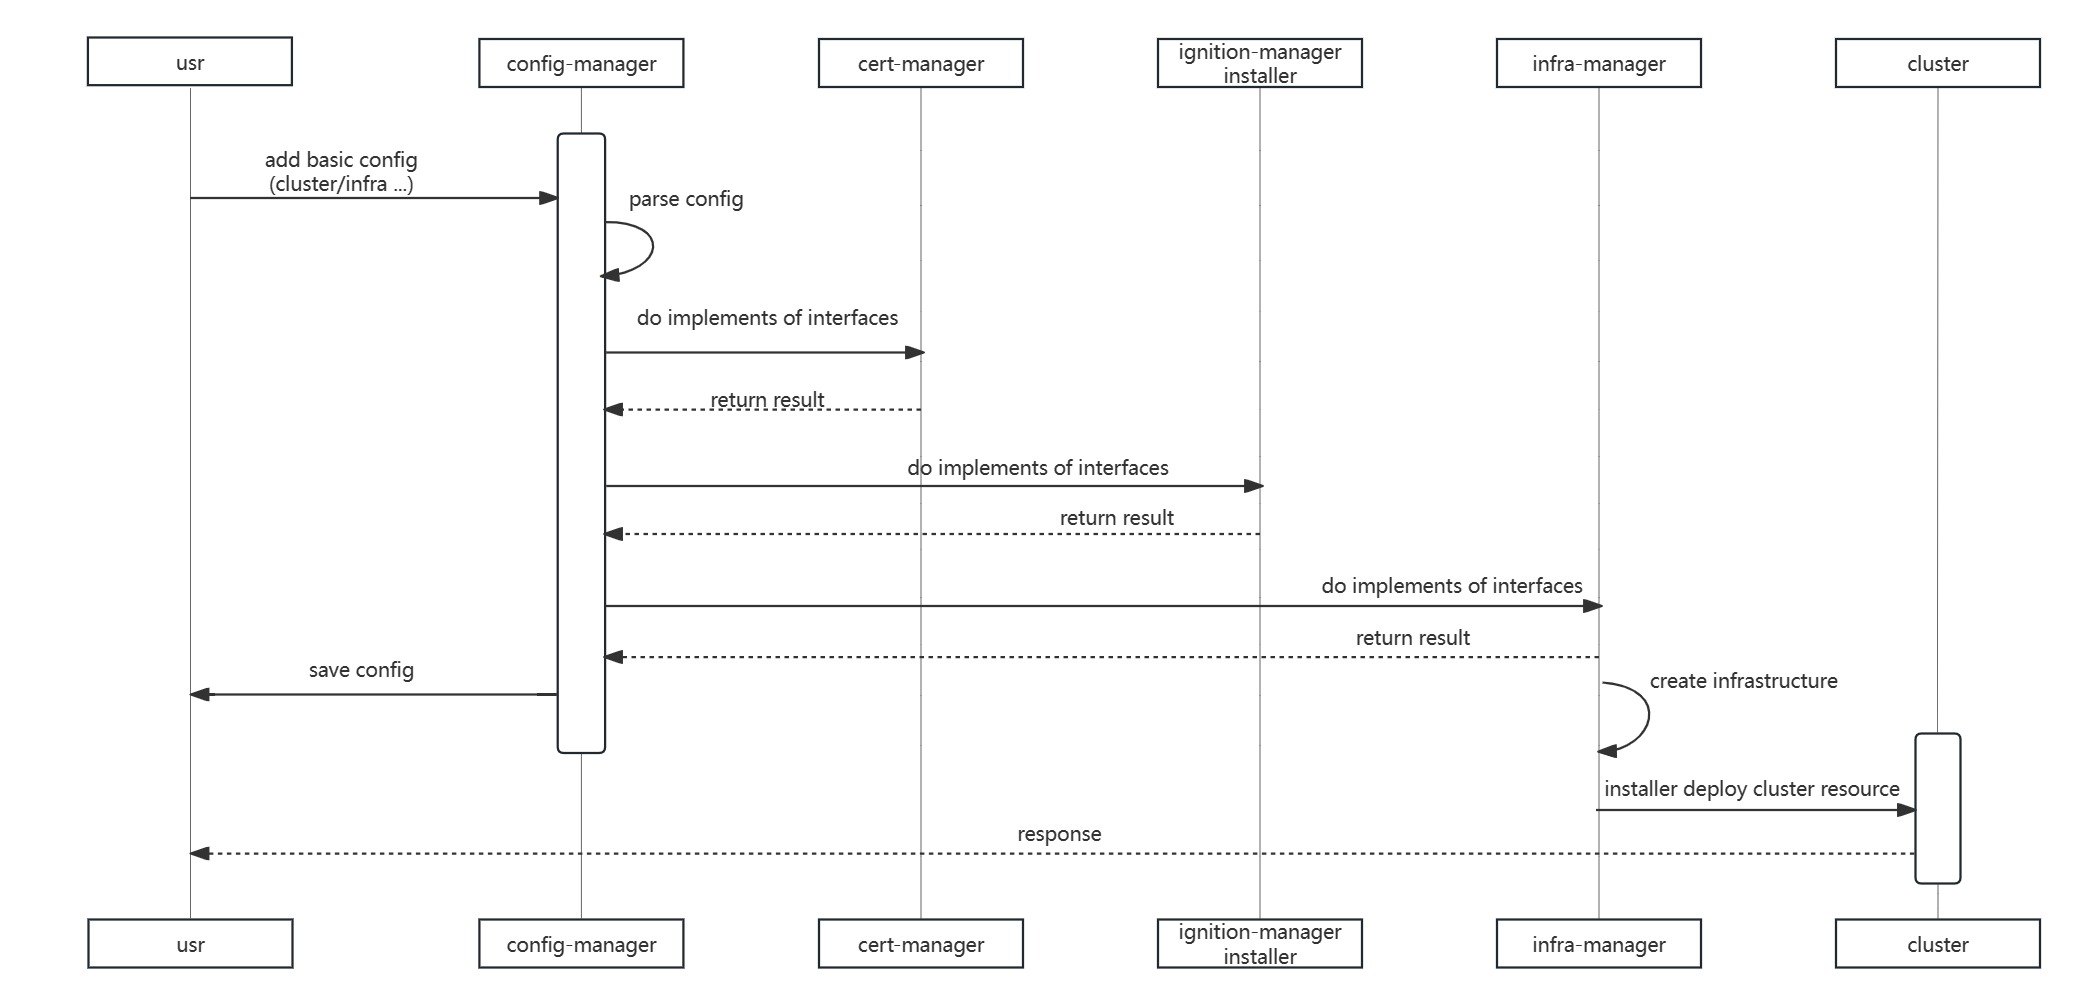
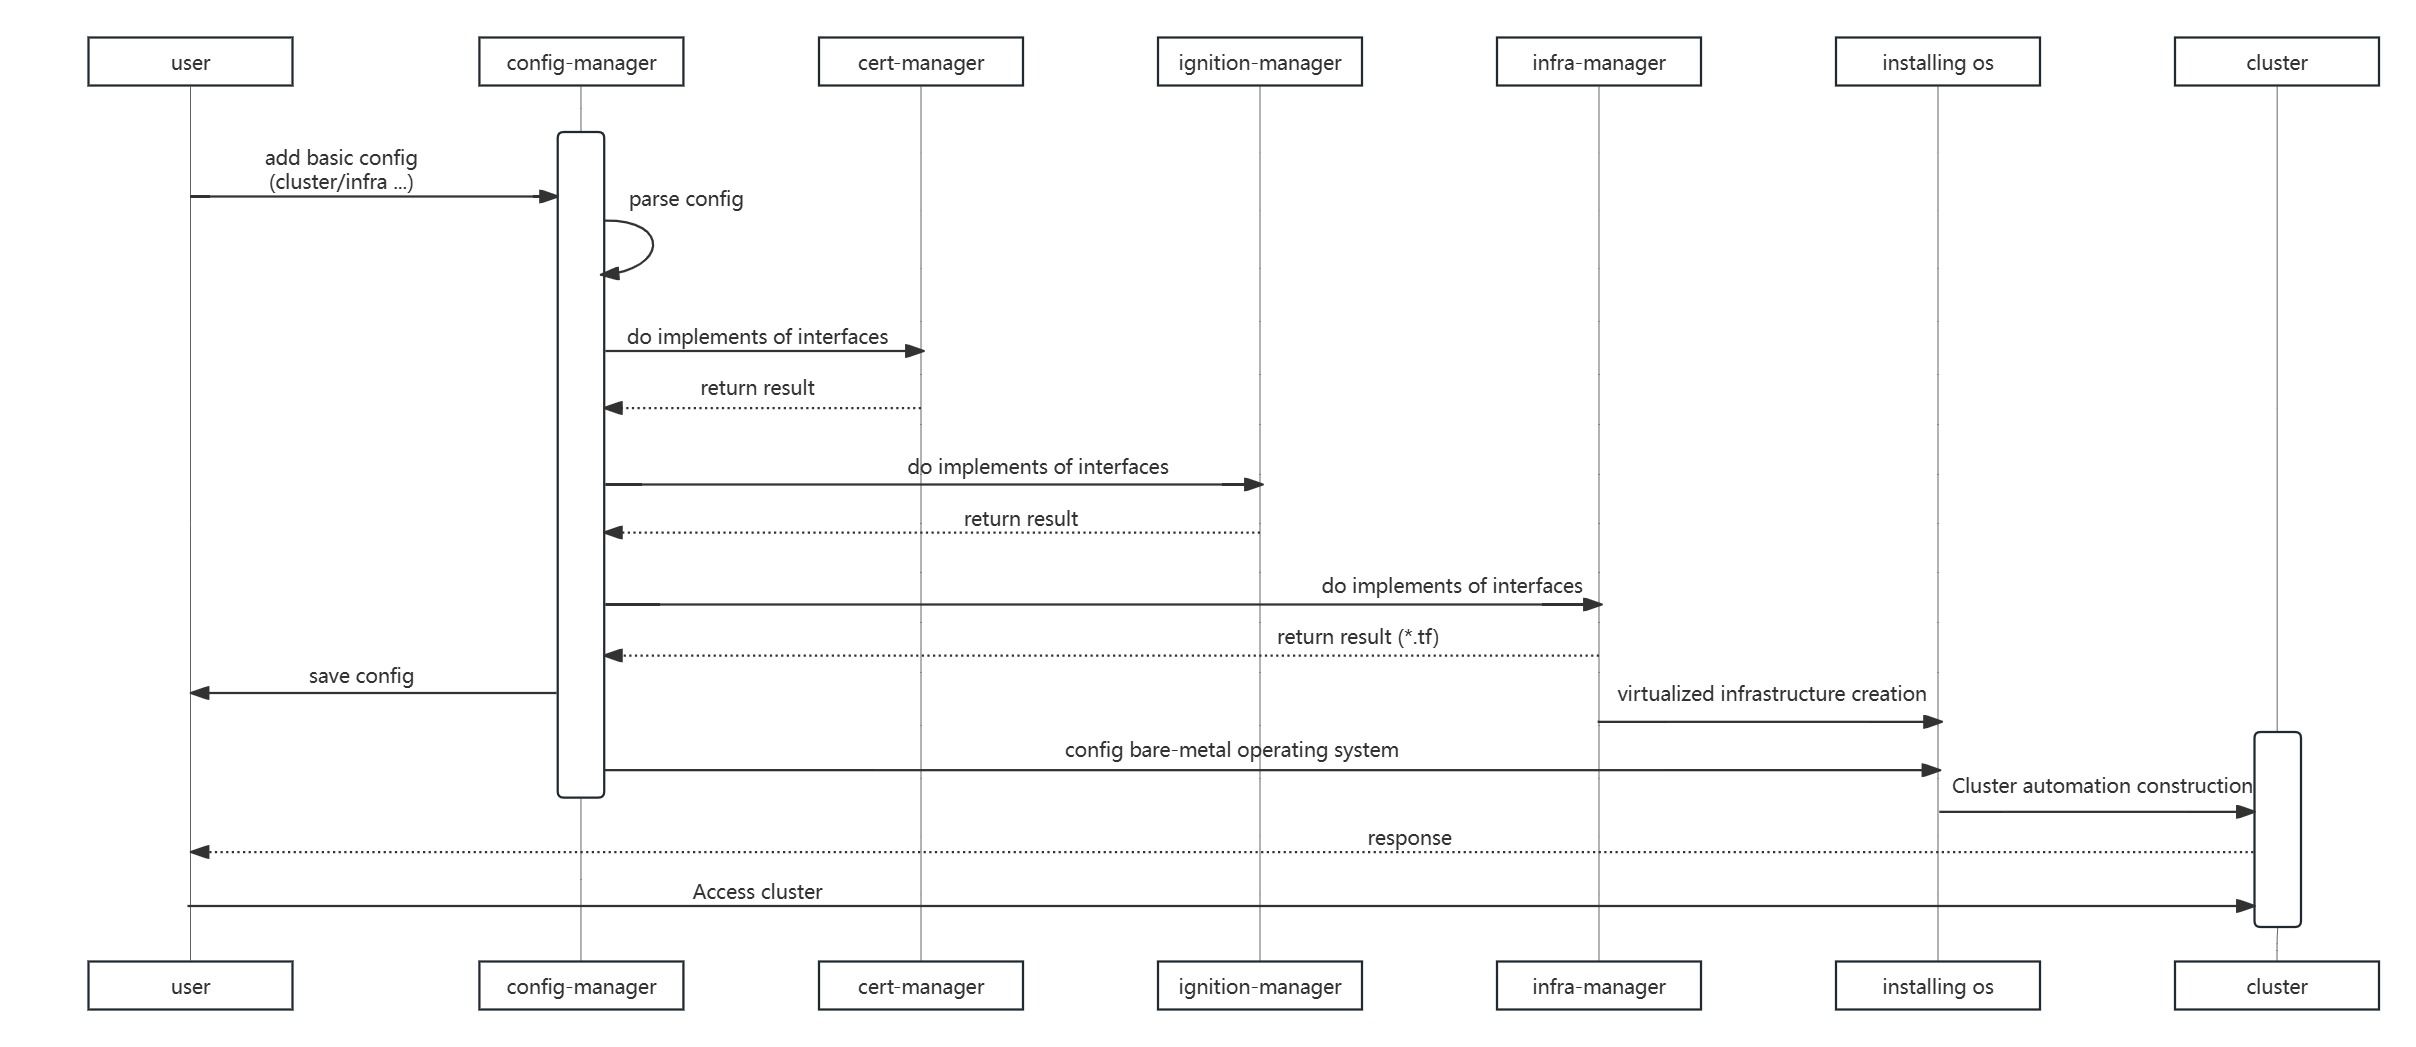
Improve architecture design documentation

diff --git a/cmd/extend.go b/cmd/extend.go
@@ -54,6 +54,9 @@ func NewExtendCommand() *cobra.Command {
 }
 
 func runExtendCmd(cmd *cobra.Command, args []string) error {
+	cleanup := command.SetuploggerHook(opts.Opts.RootOptDir)
+	defer cleanup()
+
 	clusterID, err := cmd.Flags().GetString("cluster-id")
 	if err != nil {
 		logrus.Errorf("Failed to get cluster-id: %v", err)

diff --git a/docs/en/manual.md b/docs/en/manual.md
@@ -7,13 +7,13 @@
   * Installation of the tofu software package
     ``` shell
     # Install amd64 version
-    $ wget https://github.com/opentofu/opentofu/releases/download/v1.6.0-rc1/tofu_1.6.0-rc1_amd64.rpm
-    $ rpm -ivh tofu_1.6.0-rc1_amd64.rpm
+    $ wget https://github.com/opentofu/opentofu/releases/download/v1.6.2/tofu_1.6.2_amd64.rpm
+    $ rpm -ivh tofu_1.6.2_amd64.rpm
     ``` 
     ``` shell
     # Install arm64 version
-    $ wget https://github.com/opentofu/opentofu/releases/download/v1.6.0-rc1/tofu_1.6.0-rc1_arm64.rpm
-    $ rpm -ivh tofu_1.6.0-rc1_arm64.rpm
+    $ wget https://github.com/opentofu/opentofu/releases/download/v1.6.2/tofu_1.6.2_arm64.rpm
+    $ rpm -ivh tofu_1.6.2_arm64.rpm
     ``` 
 
 * Install NKD
@@ -30,6 +30,9 @@ Deploying clusters on the libvirt platform requires pre-installation of the libv
 
 ### openstack
 Deploying clusters on the OpenStack platform requires pre-setup of the OpenStack environment.
+
+### Bare Metal
+When deploying a cluster on a bare metal platform, it is necessary to prepare the physical machines in advance.
 
 ## Compilation and Installation
 
@@ -106,22 +109,44 @@ Supports deploying the cluster using application configuration parameters, in ad
   -f, --file string                   Location of the cluster deploy config file
   -h, --help                          help for deploy
       --image-registry string         Registry address for Kubernetes component container images
+      --ipxe-filePath string          Path of config file for iPXE
+      --ipxe-ip string                IP address of local machine for iPXE
+      --ipxe-osInstallTreePath string Path of OS install tree for iPXE. (default: /var/www/html/)
       --kubernetes-apiversion uint    Sets the Kubernetes API version. Acceptable reference values:
                                         - 1 for Kubernetes versions < v1.15.0,
                                         - 2 for Kubernetes versions >= v1.15.0 && < v1.22.0,
                                         - 3 for Kubernetes versions >= v1.22.0
       --kubeversion string            Version of Kubernetes to deploy
+      --libvirt-cidr string           CIDR for libvirt (default: 192.168.132.0/24)
+      --libvirt-gateway string        Gateway for libvirt (default: 192.168.132.1)
+      --libvirt-osPath string         OS path for libvirt
+      --libvirt-uri string            URI for libvirt (default: qemu:///system)
       --master-cpu uint               CPU allocation for master nodes (units: cores)
       --master-disk uint              Disk size allocation for master nodes (units: GB)
       --master-hostname stringArray   Hostnames of master nodes (e.g., --master-hostname [master-01] --master-hostname [master-02] ...)
       --master-ips stringArray        IP addresses of master nodes (e.g., --master-ips [master-ip-01] --master-ips [master-ip-02] ...)
       --master-ram uint               RAM allocation for master nodes (units: MB)
       --network-plugin-url string     The deployment yaml URL of the network plugin
+      --openstack-authURL string            AuthURL for openstack (default: http://controller:5000/v3)
+      --openstack-availabilityZone string   AvailabilityZone for openstack (default: nova)
+      --openstack-externalNetwork string    ExternalNetwork for openstack
+      --openstack-glanceName string         GlanceName for openstack
+      --openstack-internalNetwork string    InternalNetwork for openstack
+      --openstack-password string           Password for openstack
+      --openstack-region string       Region for openstack (default: RegionOne)
+      --openstack-tenantName string   TenantName for openstack (default: admin)
+      --openstack-username string     UserName for openstack (default: admin)
       --operator-image-url string     URL of the container image for the housekeeper operator component
+      --os-type string                Operating system type for Kubernetes cluster deployment (e.g., nestos or generalos)
       --password string               Password for node login
       --pause-image string            Image for the pause container (e.g., pause:TAG)
       --platform string               Infrastructure platform for deploying the cluster (supports 'libvirt' or 'openstack')
       --pod-subnet string             Subnet used for Kubernetes Pods. (default: 10.244.0.0/16)
+      --posthook-yaml string          Specify a YAML file or directory to apply after cluster deployment using 'kubectl apply'
+      --prehook-script string         Specify a script file or directory to execute before cluster deployment as hooks
+      --pxe-httpRootDir string        Root directory of HTTP server for PXE (default: /var/www/html/)
+      --pxe-ip string                 IP address of local machine for PXE
+      --pxe-tftpRootDir string        Root directory of TFTP server for PXE (default: /var/lib/tftpboot/)
       --release-image-url string      URL of the NestOS container image containing Kubernetes component
       --runtime string                Container runtime type (docker, isulad or crio)
       --service-subnet string         Subnet used by Kubernetes services. (default: 10.96.0.0/16)
@@ -134,7 +159,7 @@ Supports deploying the cluster using application configuration parameters, in ad
       --worker-ips stringArray        IP addresses of worker nodes (e.g., --worker-ips [worker-ip-01] --worker-ips [worker-ip-02] ...)
       --worker-ram uint               RAM allocation for worker nodes (units: MB)
   # Deploying the cluster with optional application configuration parameters
-  $ nkd deploy --platform [platform] --master-ips [master-ip-01] --master-ips [master-ip-02] --master-hostname [master-hostname-01] --master-hostname [master-hostname-02] --master-cpu [master-cpu-cores] --worker-hostname [worker-hostname-01] --worker-disk [worker-disk-size]
+  $ nkd deploy --platform [platform] --master-ips [master-ip-01] --master-ips [master-ip-02] --master-hostname [master-hostname-01] --master-hostname [master-hostname-02] --master-cpu [master-cpu-cores] --worker-hostname [worker-hostname-01] --worker-disk [worker-disk-size] ...
   ```
 
 ## Deployment Process Demonstration
@@ -157,19 +182,16 @@ Deploying the Cluster with Application Configuration Files
       ``` dockerfile
       FROM nestos_base_image
       COPY kube* /usr/bin/
+      COPY crictl /usr/bin/
       RUN ostree container commit
       ```
 Note: Users need to customize building deployment images before deploying the cluster.
 
 ## Create Cluster
 
- - Deploy the cluster using default configurations without adding any parameters. The default platform is libvirt, and it creates one master node and one worker node
-    ``` shell
-    $ nkd deploy
-    ```
  - Deploy the cluster with optional parameters. Example command:
     ``` shell
-    $ nkd deploy --master-ips 192.168.132.11 --master-ips 192.168.132.12 --master-hostname k8s-master01 --master-hostname k8s-master02 --master-cpu 8 --worker-hostname k8s-worker01 --worker-disk 50
+    $ nkd deploy --master-ips 192.168.132.11 --master-ips 192.168.132.12 --master-hostname k8s-master01 --master-hostname k8s-master02 --master-cpu 8 --worker-hostname k8s-worker01 --worker-disk 50 ...
     ```
  - Additionally, for more fine-grained configurations, you can deploy the cluster using a cluster configuration file. See configuration management for details.
     ``` shell

diff --git a/docs/en/config_file_desc.md b/docs/en/config_file_desc.md
@@ -1,15 +1,12 @@
 # Cluster config file description
 
-For the NestOS image download address, see[website](https://nestos.openeuler.org/)
 ``` shell
 cluster_id: cluster                                 # cluster name
 architecture: amd64                                 # deploy cluster architecture, support amd64 or arm64
-platform: libvirt                                   # deployment platform is libvirt
-infraplatform
-  uri: qemu:///system                                
-  osimage: https://nestos.org.cn/nestos20230928/nestos-for-container/x86_64/NestOS-For-Container-22.03-LTS-SP2.20230928.0-qemu.{arch}.qcow2                                             # image URL，support amd64 or arm64
-  cidr: 192.168.132.0/24
-  gateway: 192.168.132.1
+platform: libvirt                                   # deployment platform is libvirt、openstack、pxe
+                                                    # Parameters need to be set according to different deployment platforms
+osImage:
+  type:                                             # Specify the type of operating system, such as nestos or generalos.
 username: root                                      # Specify the username for ssh login
 password: $1$yoursalt$UGhjCXAJKpWWpeN8xsF.c/        # Specify the password for ssh login
 sshkey: "/root/.ssh/id_rsa.pub"                     # The storage path of the ssh-key file
@@ -27,21 +24,21 @@ worker:                                             # worker config
     ram: 8192
     disk: 50
   ip: ""                                            # If the worker node IP address is not set, it will be automatically assigned by dhcp and will be empty by default.
-runtime: isulad                                     # support docker、isulad、crio
+runtime: isulad                                     # support docker、isulad、containerd and crio
 kubernetes:                                         
-  kubernetes-version: "v1.23.10"                   
+  kubernetes-version: "v1.29.1"                   
   kubernetes-apiversion: "v1beta3"                  # support v1beta3、v1beta2、v1beta1
   apiserver-endpoint: "192.168.132.11:6443"          
-  image-registry: "k8s.gcr.io"                     
-  pause-image: "pause:3.6"                         
-  release-image-url: "hub.oepkgs.net/nestos/nestos:22.03-LTS-SP2.20230928.0-{arch}-k8s-v1.23.10"                         
+  image-registry: "registry.k8s.io"                     
+  pause-image: "pause:3.9"                         
+  release-image-url: ""                         
   token: ""                                         # automatically generated by default
   adminkubeconfig: /etc/nkd/cluster/admin.config    # path of admin.conf
   certificatekey: ""                                # The key used to decrypt the certificate in the downloaded Secret when adding a new control plane node
   network:                                          
     service-subnet: "10.96.0.0/16"                  
     pod-subnet: "10.244.0.0/16"                     
-    plugin: https://projectcalico.docs.tigera.io/archive/v3.22/manifests/calico.yaml # network plugin
+    plugin: ""                                      # network plugin
 housekeeper:                                                                                          # housekeeper
   deployhousekeeper: false                                                                           
   operatorimageurl: "hub.oepkgs.net/nestos/housekeeper/{arch}/housekeeper-operator-manager:{tag}"     # housekeeper-operator image URL
@@ -55,6 +52,16 @@ certasset:                                          # Configure user-defined cer
   frontproxycakeypath: ""
   sapub: ""
   sakey: ""
+```
+
+Specify deployment platform configuration parameters for libvirt as an example:
+``` shell
+platform: libvirt                                   # Deployment platform is libvirt
+infraPlatform
+  uri: qemu:///system                                
+  osPath:                                           # Specify the operating system image address for deploying cluster machines, supporting architectures x86_64 or aarch64
+  cidr: 192.168.132.0/24                            # Routing address
+  gateway: 192.168.132.1                            # Gateway address
 ```
 
 To set the deployment platform to openstack, you need to reset the "infraplatform" field configuration parameters.
@@ -71,3 +78,39 @@ infraplatform
 	glance_name:                                        # qcow2 image
 	availability_zone:                                  # default nova
 ```
+
+Specify deployment platform configuration parameters for PXE as an example:
+``` shell
+platform: pxe                                        # Deployment platform is PXE
+infraPlatform
+  ip:                                                # IP address of the HTTP server
+  httpServerPort: "9080"                             # Port number of the HTTP server
+  httpRootDir: /var/www/html/                        # Root directory of the HTTP server
+  tftpServerPort: "69"                               # Port number of the TFTP server
+  tftpRootDir: /var/lib/tftpboot/                    # Root directory of the TFTP server
+```
+
+## Image Download Links
+
+- NestOS image download, please visit the [official website](https://nestos.openeuler.org/), and download the NestOS For Container version.
+- For OpenEuler image download, please visit the [official website](https://www.openeuler.org/).
+
+## Password Cipher Generation Methods:
+- When specifying the underlying operating system of the cluster as nestos, a cipher password needs to be used. Here's the generation method:
+  ``` shell
+  openssl passwd -1 -salt yoursalt
+  Password: qwer1234!@#$
+  $1$yoursalt$UGhjCXAJKpWWpeN8xsF.c/
+  ```
+
+- When deploying the platform as pxe, a cipher password needs to be used.
+  ``` shell
+  # python3  
+  Python 3.7.9 (default, Mar  2 2021, 02:43:11)
+  [GCC 7.3.0] on linux
+  Type "help", "copyright", "credits" or "license" for more information.  
+  >>> import crypt  
+  >>> passwd = crypt.crypt("myPasswd")  
+  >>> print (passwd)  
+  $6$sH1qri2n14V1VCv/$fWnV3rPv95gWHJ3wZu6o0bBGy.SnllSw4a2HuoP45jXfI9fCrwe60AULO/0aXS7dWTSwvwdqqY4yFhwUdJcb.0
+  ```

diff --git a/docs/en/overall_design.md b/docs/en/overall_design.md
@@ -41,9 +41,7 @@ NKD relies on certificates for the creation of cluster nodes and access to resou
 ![certmanager_design](/docs/en/figures/certmanager_design.jpg)
 
 ### Ignition module design
-NKD utilizes the Ignition mechanism to inject dynamic configurations required after system deployment when creating infrastructure. For more details, please refer to the [design document](./ignition_design.md)。It also supports converting user configurations to ignition files via command line arguments or configuration files.After the deployment completes the operating system boot, the node automatically completes the cluster creation during the operating system boot phase through the Ignition mechanism, without manual intervention. The Ignition file creation process for each cluster node is shown below:
-
-![ignition_design](/docs/en/figures/ignition_design.jpg)
+When creating the infrastructure, NKD needs to pass the dynamic configuration required after system deployment through the ignition mechanism to support user deployment of Kubernetes resources. The ignition mechanism can convert user-written configuration files into configuration files used during machine boot. For immutable infrastructure operating systems, the ignition module will generate Ignition files. If the underlying operating system is a general-purpose operating system, a cloudinit file will be generated when deploying the cluster on a virtualization platform, while a kickstart file will be generated when deploying the cluster on a bare metal platform. For more details, see the [design document](./ignition_design.md).
 
 ### housekeeper module design
 During the cluster deployment phase, users can choose whether to deploy housekeeper.

diff --git a/README.md b/README.md
@@ -5,7 +5,7 @@
 NKD（NestOS Kubernetes Deployer）是专为在NestOS上部署和维护Kubernetes集群而打造的解决方案。其旨在通过在集群外提供一系列服务，涵盖了基础设施和Kubernetes核心组件的部署、更新和配置管理等，从而简化了集群部署和升级的流程。NKD的设计目标在于提供更为便捷的集群操作体验，使得用户能够轻松完成复杂的管理任务，从而提高整体部署和维护的效率。
 
 #### 支持平台
-支持多种部署平台，NKD根据集群需求，连接基础设施提供商动态创建所需的IaaS资源，目前支持OpenStack和libvirt平台。
+支持多种部署平台，NKD根据集群需求，连接基础设施提供商动态创建所需的IaaS资源，目前支持OpenStack、libvirt和裸金属平台。
 
 ## 软件架构
 详细内容请见[软件架构说明](docs/zh/overall_design.md)

diff --git a/docs/en/globalconfig_file_desc.md b/docs/en/globalconfig_file_desc.md
@@ -3,6 +3,6 @@
 ``` shell
 persistdir: /etc/nkd            # File storage path, including global configuration files, cluster configuration files, certificate files, etc. Default path: /etc/nkd       
 bootstrapurl:
-  bootstrap_ign_host: ""        # Ignition service address (domain name or IP, usually NKD operating environment)
-  bootstrap_ign_port: "9080"    # Ignition service port (default 9080, you need to open the firewall port yourself)
+  bootstrapIgnHost: ""        # Ignition service address (domain name or IP, usually NKD operating environment)
+  bootstrapIgnPort: "9080"    # Ignition service port (default 9080, you need to open the firewall port yourself)
 ```  

diff --git a/README.en.md b/README.en.md
@@ -7,7 +7,7 @@ NKD (NestOS Kubernetes Deployer) is a solution designed for deploying and  maint
 
 #### Support Platforms
 
-It supports multiple deployment platforms, and NKD dynamically creates the required IaaS resources by connecting infrastructure providers  according to the needs of the cluster, and currently supports OpenStack  and libvirt platforms. 
+It supports multiple deployment platforms, and NKD dynamically creates the required IaaS resources by connecting infrastructure providers  according to the needs of the cluster, and currently supports OpenStack libvirt and Bare Metal platforms. 
 
 ## Software architecture
 
